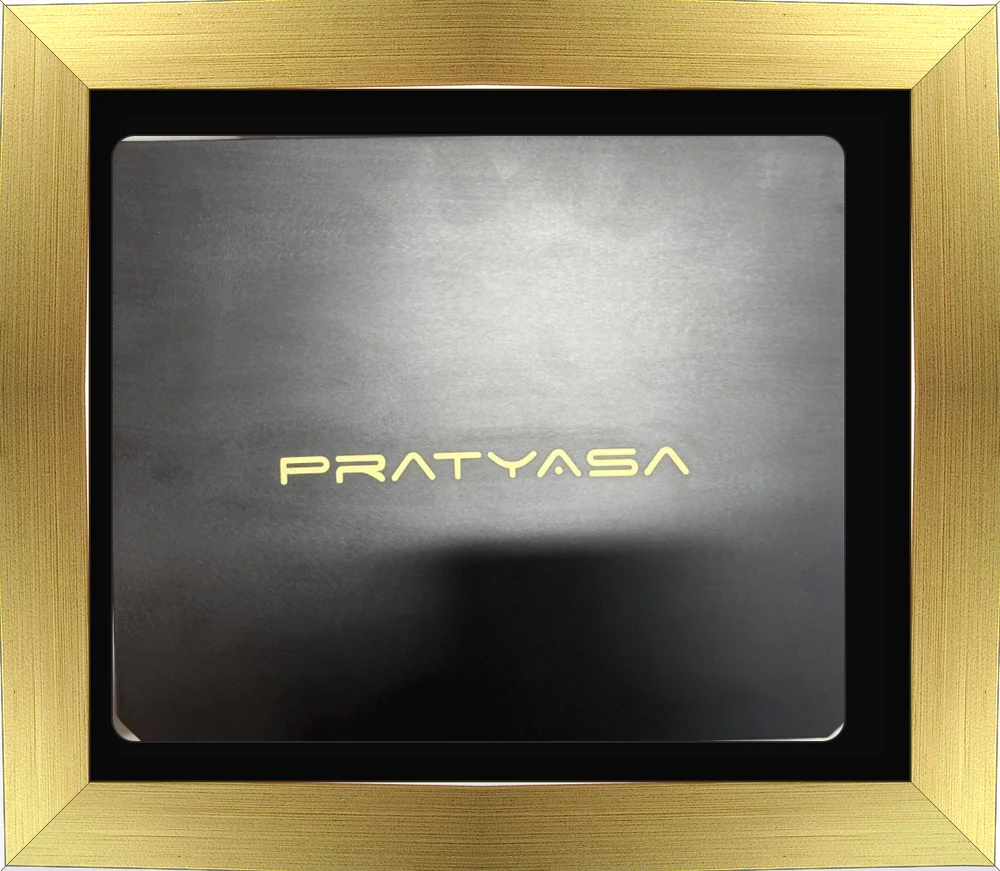
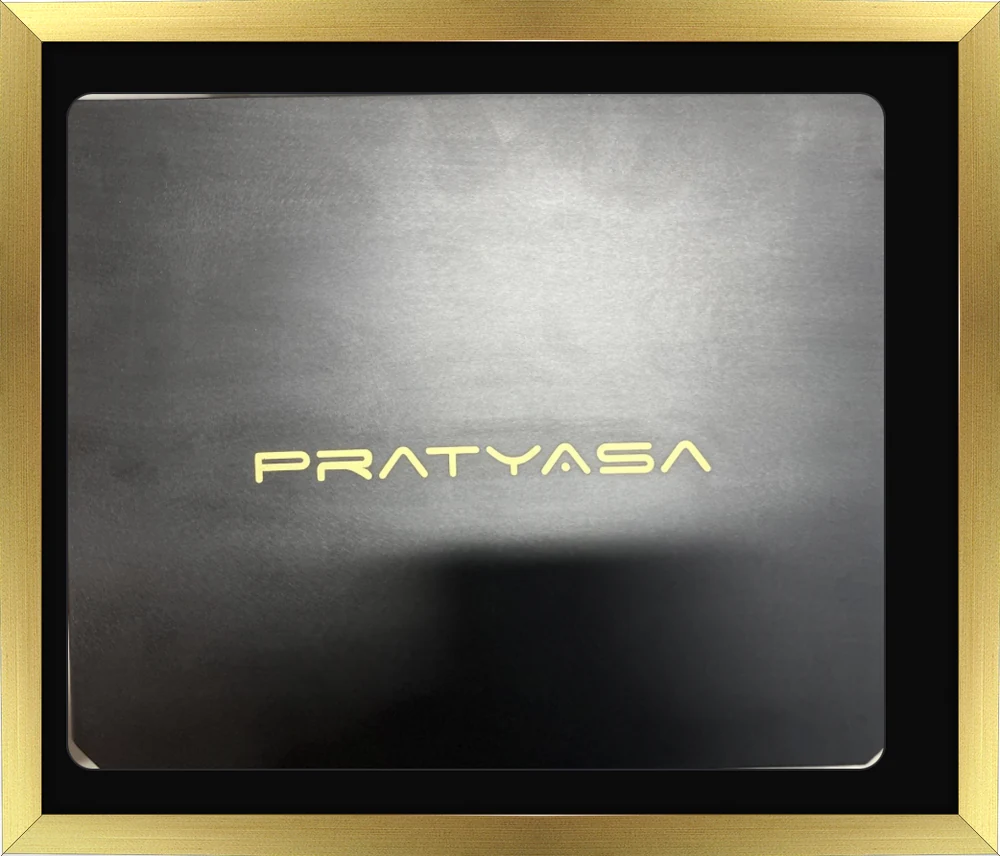
refine: thin the gold frame from 104px to 44px of face
At the About section's rendered width the frame went from ~38px of visible
gold to ~18px. Still reads as a mitred frame, no longer competes with the
work inside it. Asset drops 134KB -> 80KB; declared dimensions re-matched
to the file (1000x856) so there is still no layout shift.

diff --git a/index.html b/index.html
@@ -331,7 +331,7 @@
       <p class="fine">Not an email client? Copy the address above. For anything touching licensing or assignment, the National Institute of Technology–Calicut is the patentee and the party to approach.</p>
     </div>
     <figure class="case">
-      <img src="./assets/case-framed.webp" width="1000" height="871" loading="lazy" decoding="async"
+      <img src="./assets/case-framed.webp" width="1000" height="856" loading="lazy" decoding="async"
            alt="The Pratyasa presentation case, matte black with the name embossed in gold, in a gold frame.">
     </figure>
   </div>
